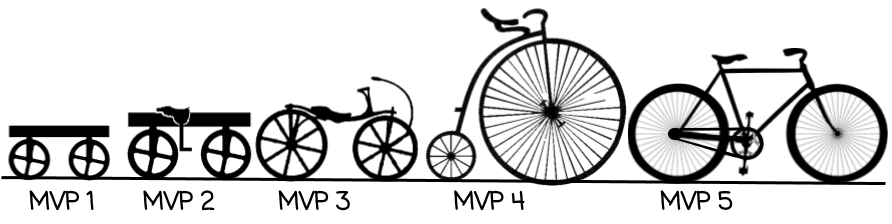
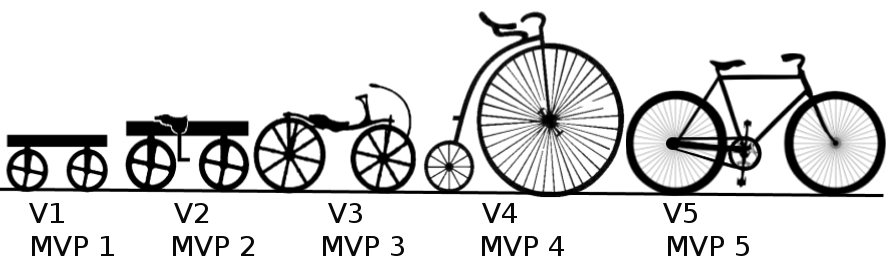
Edir v3.0.9 - add mvp images and long term team image

Changed region(s): [[0.0, 0.0312, 0.9989, 1.0]]

diff --git a/content/project_management.tex b/content/project_management.tex
@@ -26,7 +26,7 @@ En una organización ágil, en la fase de inicio del proyecto se inicia un produ
 
 \subsubsection{Descubrimiento}
 
-En el desarrollo lean nos debemos enfocar en traer al cliente al proceso de desarrollo del producto para que se construya algo que, además de querer pagarlo, lo quiera y tenga experiencias de usuario memorables. El descubrimiento (discovery) se enfoca en iniciar un desarrollo lean y es parte, en la organización, del descubrimiento de iniciativas de proyectos. Pues, es aquí donde nace el proyecto. En una organización lean, donde se implementa el método científico en el negocio mediante lean startup u otro método, es donde nacen las primeras “macro hipótesis” como parte de la iniciativa del proyecto. Es en este momento en donde se asocia, aunque sea temporalmente, alguna “métrica de éxito” (KPI) que nos permita validar la macro hipótesis. En esta etapa se comienza a entender y definir al cliente y se hace una investigación de cliente (customer research) para ello. Para esto se comienza a analizar el viaje del cliente en el producto o servicio (Customer Journey). También se revisan temas de factibilidad técnica. El resultado de esta fase será la entrada para la etapa de inception. En la organización es la etapa donde se genera la definición de la oportunidad de negocio en una evaluación de oportunidad (opportunity assessment) o caso de negocio (business case) que sirve de entrada para evaluación de iniciativas de proyectos (en la PMO si existiera) y presupuestación (en caso que se trabaje bajo presupuestación).
+En el desarrollo lean nos debemos enfocar en traer al cliente al proceso de desarrollo del producto para que se construya algo que, además de querer pagarlo, lo quiera y tenga experiencias de usuario memorables. Necesitamos descubrir lo que la gente quiere o necesita o un problema a resolver. El descubrimiento (discovery) se enfoca en iniciar un desarrollo lean y es parte, en la organización, del descubrimiento de iniciativas de proyectos o productos. Pues, es aquí donde nace el proyecto. En una organización lean, donde se implementa el método científico en el negocio mediante lean startup u otro método, es donde nacen las primeras “macro hipótesis” como parte de la iniciativa del proyecto. Es en este momento en donde se asocia, aunque sea temporalmente, alguna “métrica de éxito” (KPI) que nos permita validar la macro hipótesis. En esta etapa se comienza a entender y definir al cliente y se hace una investigación de cliente (customer research) para ello. Para esto se comienza a analizar el viaje del cliente en el producto o servicio (Customer Journey). También se revisan temas de factibilidad técnica. El resultado de esta fase será la entrada para la etapa de inception. En la organización es la etapa donde se genera la definición de la oportunidad de negocio en una evaluación de oportunidad (opportunity assessment) o caso de negocio (business case) que sirve de entrada para evaluación de iniciativas de proyectos (en la PMO si existiera) y presupuestación (en caso que se trabaje bajo presupuestación).
 
 \subsubsection{Incepción}
 
@@ -62,9 +62,9 @@ En resumen se puede decir que se suelen usar tres niveles de planificación (ver
 \FloatBarrier % Command to control the position of floating images. With its, I can get the figures not to be pushed to the end of the document.
 % El comando FloatBarrier es usado aqui para que la imagen se clave en este lugar y que no sea acarreada al final del documento.
 
-\subsection{Roadmap}
+\subsection{Plan de ruta}
 
-El roadmap (hoja de ruta) de un producto es un plan de alto nivel que describe como el producto va a ir evolucionando en el futuro, de algo simple a algo complejo. Nos permite proyectar en el tiempo donde queremos que esté el producto en el futuro. El objetivo del roadmap es ser una especie de borrador para comunicar, mostrar, reflexionar sobre el futuro del producto, alinear la estrategia y guiar la construcción del mismo. Es una herramienta de planificación dinámica e interactiva, no un contrato para trabajar orientados a deadline.
+El plan de ruta o roadmap (hoja de ruta) de un producto es un plan de alto nivel que describe como el producto va a ir evolucionando en el futuro, de algo simple a algo complejo. Nos permite proyectar en el tiempo donde queremos que esté el producto en el futuro. El objetivo del roadmap es ser una especie de borrador para comunicar, mostrar, reflexionar sobre el futuro del producto, alinear la estrategia y guiar la construcción del mismo. Es una herramienta de planificación dinámica e interactiva, no un contrato para trabajar orientados a deadline.
 
 \begin{figure}[h]
   \centering
@@ -125,13 +125,30 @@ Como vemos, aquí el enfoque viró rotundamente en relación a la administració
 
 \subsection{Gestión orientada a producto}
 
-El verdadero objetivo de Scrum es conseguir un producto mínimo viable o MVP en manos de los futuros clientes cuán rápido sea posible y obtener sus comentarios como feedback temprano\footnote{\cite{Jeff-Sutherland-2016}}. MVP es una estrategia para el aprendizaje de forma iterativa sobre sus clientes para poner a prueba las hipótesis fundamentales del negocio \footnote{\cite{Greg-Gehrich-2012}}. Es un incremento de producto, subconjunto del 20\% de features que representan parte del 80\% de valor\footnote{\cite{Jeff-Sutherland-2016}}. Las features del MVP representan conceptualmente al producto final completo (aunque no sea el producto final) y se prueba con un grupo de usuarios tempranos o "early adopters". Las pruebas deben ser medibles y se hacen sobre las hipótesis fundamentales del producto como negocio.
-Originariamente el MVP es el primer producto mínimo viable. Luego, en la práctica y por simplicidad explicativa, se denominan MPV a cualquier incremento funcional y evolutivo del producto como un todo (ver fig. \ref{fig:MVPs}).
+En la gestión orientada a producto nos centramos en iniciativas que evolucionan productos. Entendiendo producto como productos software, servicios, recursos compartidos, suscripciones, agencia, aportación de público, etcétera; basado en software y que ofrece algún tipo de experiencia digital que satisface alguna necesidad o deseo o resuelve un problema, por el cual alguien está dispuesto a pagar. Este tipo de productos pasan por etapas de descubrimiento, desarrollo, marketing y operación. Solo que esta secuencia no es estrictamente en una sola secuencia en cascada, sino más bien en múltiples ciclos de aprendizaje y desarrollo iterativo, incremental y evolutivo, a partir de hipótesis, prototipos y MVPs, como a continuación se explica. 
 
+\subsubsection{Producto mínimo viable}
+
+El verdadero objetivo de Scrum es conseguir un producto mínimo viable o MVP en manos de los futuros clientes cuán rápido sea posible y obtener sus comentarios como feedback temprano\footnote{\cite{Jeff-Sutherland-2016}}. MVP es una estrategia para el aprendizaje de forma iterativa sobre sus clientes para poner a prueba las hipótesis fundamentales del negocio \footnote{\cite{Greg-Gehrich-2012}}. Es un incremento de producto, subconjunto del 20\% de features que representan parte del 80\% de valor\footnote{\cite{Jeff-Sutherland-2016}}. Las características o features del MVP representan conceptualmente al producto final completo (aunque no sea el producto final) y se prueba con un grupo de usuarios tempranos o "early adopters". Las pruebas deben ser medibles y se hacen sobre las hipótesis fundamentales del producto como negocio. Cabe aclarar que, originariamente, el MVP es el primer producto mínimo viable en una cadena evolutiva de entregables. 
 
 \begin{figure}[h]
   \centering
-  \includegraphics[width=0.99\textwidth]{MVPs}
+  \includegraphics[width=0.70\textwidth]{MVP}
+  \caption{El MVP}
+  \centering
+  \label{fig:MVP} %\ref{fig:MVP}
+\end{figure}
+\FloatBarrier % Command to control the position of floating images. With its, I can get the figures not to be pushed to the end of the document.
+% El comando FloatBarrier es usado aqui para que la imagen se clave en este lugar y que no sea acarreada al final del documento.
+
+
+\subsubsection{Evolución de un MVP}
+
+Habitualmente, en la práctica y por simplicidad explicativa, hay quienes denominan MPV a cualquier incremento conceptual, funcional y evolutivo del producto como un todo (ver fig. 5.7). La verdad que no importa qué terminología use (Versión, Release, MVP, etc.), lo importante es que todos los implicados tengan la misma comprensión de los conceptos implicados en la evolución del producto.
+
+\begin{figure}[h]
+  \centering
+  \includegraphics[width=0.80\textwidth]{MVPs}
   \caption{Evolución de una bicicleta}
   \centering
   \label{fig:MVPs} %\ref{fig:MVPs}
@@ -139,23 +156,37 @@ Originariamente el MVP es el primer producto mínimo viable. Luego, en la práct
 \FloatBarrier % Command to control the position of floating images. With its, I can get the figures not to be pushed to the end of the document.
 % El comando FloatBarrier es usado aqui para que la imagen se clave en este lugar y que no sea acarreada al final del documento.
 
+\subsubsection{Oferta mínima viable económicamente}
 
-Por otro lado hay otro concepto que se maneja en el ámbito de la agilidad, el MMP (Minimal Marketable Product). El MMP es el producto con el más pequeño posible conjunto de features y que crea la experiencia del usuario deseada, y por lo tanto puede ser comercializado y vendido, tempranamente, con éxito.
+Por otro lado, hay otro concepto que se maneja en el ámbito de la agilidad, el mínimo producto vendible o MMP (Minimal Marketable Product). El MMP es el producto con el más pequeño posible conjunto de features y que crea la experiencia del usuario deseada, y por lo tanto puede ser comercializado y vendido, tempranamente, con éxito. Hay quienes lo denominan mínimo producto viable económicamente o EMVP, ya que es la oferta mínima viable económicamente en un mercado. A partir de un MMP es que se llega, posteriormente, a lograr el calce con el mercado o Market-Fit, que es la puesta a punto del motor de la propuesta de valor mediante el desarrollo, la venta y la comercialización, impulsando la demanda a los clientes mayoritarios.
+
+\subsubsection{Ciclo de vida del producto}
 
 Resumidamente, la gestión de proyecto se orienta al producto y su ciclo de vida. Un producto puede evolucionar mediante una secuencia de releases, de los cuales algunos entregan valor directamente de cara al público. Después de una etapa de creatividad y prototipado (si el producto es nuevo y/o novedoso), tendremos uno o una secuencia de entregables MVPs hasta llegar a un MMP, que será el mínimo producto que se lanza al mercado como tal. De allí en adelante comienza el crecimiento en escalamiento (Growth) e incremento de funcionalidad hasta alcanzar una madurez (maturity), para finalmente constituir un producto final estable o commodity (ver fig. \ref{fig:product_evolution})\footnote{\cite{Greg-Gehrich-2012}}.
 
 \begin{figure}[h]
   \centering
-  \includegraphics[width=0.70\textwidth]{product_evolution}
+  \includegraphics[width=0.80\textwidth]{product_evolution}
   \caption{Crecimiento del producto}
   \centering
   \label{fig:product_evolution} %\ref{fig:product_evolution}
 \end{figure}
+\FloatBarrier % Command to control the position of floating images. With its, I can get the figures not to be pushed to the end of the document.
+% El comando FloatBarrier es usado aqui para que la imagen se clave en este lugar y que no sea acarreada al final del documento.
 
 \subsubsection{Llevar trabajo a los equipos}
 
 Al cambiar la perspectiva hacia estar orientados a productos y mantener equipos estables, cambia el enfoque de la gestión de proyectos. Ya no buscamos recursos humanos para proyectos, desarmando y armando equipos en función de proyectos. Lo que se busca hacer, entre otras cosas, es llevar trabajo a los equipos, buscando productos para equipos. Buscamos alinear a equipos en función de objetivos estratégicos. Mantener productos o servicios de valor para objetivos estratégicos. Donde los equipos son activos de la empresa y que buscan siempre maximizar el valor entregado. Esto puede llevar a cambiar toda la dinámica de funcionamiento de una PMO e, inclusive, desarrollar independientemente de presupuestos (tema que queda fuera del alcance de este libro).
 
+\begin{figure}[h]
+  \centering
+  \includegraphics[width=0.70\textwidth]{Long_term_team}
+  \caption{Llevar trabajo a los equipos de larga duración}
+  \centering
+  \label{fig:Long_term_team} %\ref{fig:Long_term_team}
+\end{figure}
+\FloatBarrier % Command to control the position of floating images. With its, I can get the figures not to be pushed to the end of the document.
+% El comando FloatBarrier es usado aqui para que la imagen se clave en este lugar y que no sea acarreada al final del documento.
 
 \subsection{Gestión de riesgos}
 
@@ -170,6 +201,8 @@ Algo simple que se puede lograr trabajando con criticidad es usar tres valores e
   \centering
   \label{fig:RiskProblemDiagram} %\ref{fig:RiskProblemDiagram}
 \end{figure}
+\FloatBarrier % Command to control the position of floating images. With its, I can get the figures not to be pushed to the end of the document.
+% El comando FloatBarrier es usado aqui para que la imagen se clave en este lugar y que no sea acarreada al final del documento.
 
 Las herramientas gráficas que se pueden usar para dar visibilidad de los riesgos son: a) la “matriz de riesgos”; b) el “histórico de criticidad”; c) o el gráfico de curva de riesgo quemado (Risk Burn-down Chart).
 
@@ -182,3 +215,5 @@ La gestión de riesgos no es independiente de la gestión de impedimento o de pr
   \centering
   \label{fig:RiskFlowDiagram} %\ref{fig:RiskFlowDiagram}
 \end{figure}
+\FloatBarrier % Command to control the position of floating images. With its, I can get the figures not to be pushed to the end of the document.
+% El comando FloatBarrier es usado aqui para que la imagen se clave en este lugar y que no sea acarreada al final del documento.

diff --git a/content/scaling.tex b/content/scaling.tex
@@ -6,7 +6,15 @@ En "Scaling Scrum" los desafíos más importantes son: manejar las dependencias 
 
 \section{Formación de equipos}
 
-Cuando migramos desde una organización tradicional, de management 1.0, a una ágil, tal vez uno de los desafíos más relevantes y difíciles es el de organizar equipos. ¿Cómo juntamos a las personas apropiadas en forma sostenida en el tiempo? Para que un equipo sea uno, debe tener un propósito claro y distinguible de otro de la compañía. Y, en consecuencia, debería tener todas las habilidades y competencias necesarias para cumplir el propósito de forma sostenida en el tiempo. Cuando ya tenemos equipos Scrum formados, tal vez la tarea sea más fácil. Pues, en "Scaling Scrum" los equipos funcionan como células que, a medida que la organización se expande, se clonan sus estructuras como en reproducción celular. Las estructuras de las células dependen del problema que se quiere resolver en cada caso y según los nuevos propósitos que surjan. 
+Cuando iniciamos una organización o migramos desde una tradicional, de management 1.0 orientada a proyectos, a una ágil basada en equipos orientados por misión, tal vez uno de los desafíos más relevantes y difíciles es el de organizar equipos. ¿Cómo juntamos a las personas apropiadas en forma sostenida en el tiempo? Para que un equipo sea uno, debe tener un propósito claro y distinguible de otro de la compañía. Y, en consecuencia, debería tener todas las habilidades y competencias necesarias para cumplir el propósito de forma sostenida en el tiempo. Cuando ya tenemos equipos Scrum formados, tal vez la tarea sea más fácil. Pues, en "Scaling Scrum" los equipos funcionan como células que, a medida que la organización se expande, se clonan sus estructuras como en reproducción celular. Las estructuras de las células dependen del problema que se quiere resolver en cada caso y según los nuevos propósitos que surjan. 
+
+\begin{figure}[h]
+  \centering
+  \includegraphics[width=0.70\textwidth]{Scrum-Team-constitution}
+  \caption{Equipo Scrum orientado por misión}
+  \centering
+  \label{fig:Scrum-Team-constitution} %\ref{fig:Scrum-Team-constitution}
+\end{figure}
 
 De esta idea se desprende la pregunta de ¿qué propósito damos a cada equipo? o ¿cómo estructuramos a los equipos según qué propósitos? Una manera de hacerlo, pensando en productos y en el sector de producción de la compañía, es tomando una unidad de negocio o producto y ver si su alcance o tamaño es suficiente para un equipo o para varios. Si es para varios, una forma es analizar la jornada o flujo de experiencia del producto, determinar los KPIs involucrados y desglosar en subproductos con sus KPIs asociados. Así cada equipo puede ser responsable de un subproducto y de impactar según los KPIs identificados. Esta es una manera de hacerlo de arriba hacia abajo y orientados a producto. Luego, otra pregunta que surge es: ¿cómo los estructuramos? Bien, si el equipo es de producción como el desarrollo de software de productos, con trabajo planificable y divisible en lotes, Scrum viene como anillo al dedo. O sea que necesitamos a un SM y un PO en el equipo. Un equipo Scrum puede estar formado por diferentes roles, tales como: UX, SM, PO, BA, QA, FE Dev, BE Dev, etcétera. Por ejemplo, un equipo puede estar formado por: PO, SM, UX, 3 FE Dev y 3 BE Dev; otra estructura puede ser: PO, SM, BA, QA, 2 FE Dev y 2 BE Dev. O sea que podemos tener una infinidad de configuraciones. ¿Cuál puede ser la apropiada? No solo depende del propósito, sino de cómo desarrollaremos ese propósito o cuán autónomos somos en relación a él. En esta vía tenemos tres lineamientos básicos de configuración: equipos Scrum de características, equipos Scrum de componentes o uno mixto. Y cada una de estas modalidades pueden tener diversas configuraciones de roles.
 

diff --git a/content/second_page.tex b/content/second_page.tex
@@ -34,7 +34,7 @@
 
 % Version of Build or PDF version
 Primera edición, versión 1.0.0, 2015, Córdoba, Argentina.
-Segunda edición, versión 3.0.9, 4 de Agosto de 2018, Santiago de Chile.
+Segunda edición, versión 3.0.9, 11 de Agosto de 2018, Santiago de Chile.
 
 % License text message
 \input{content/license_message}
